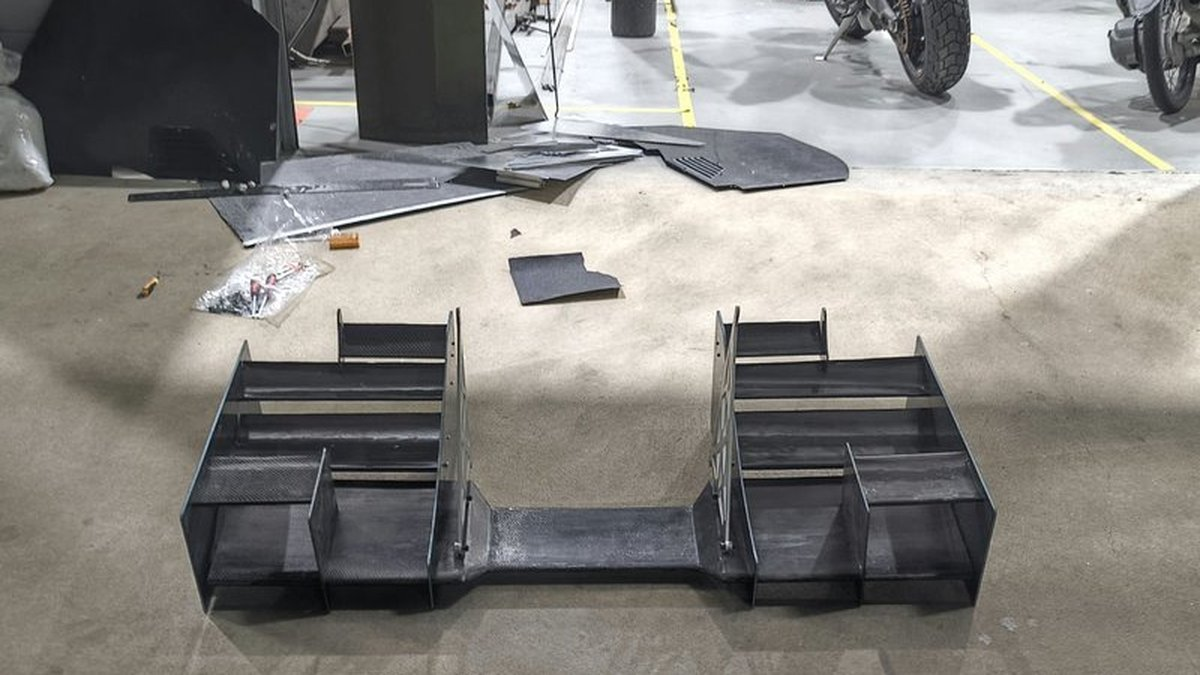
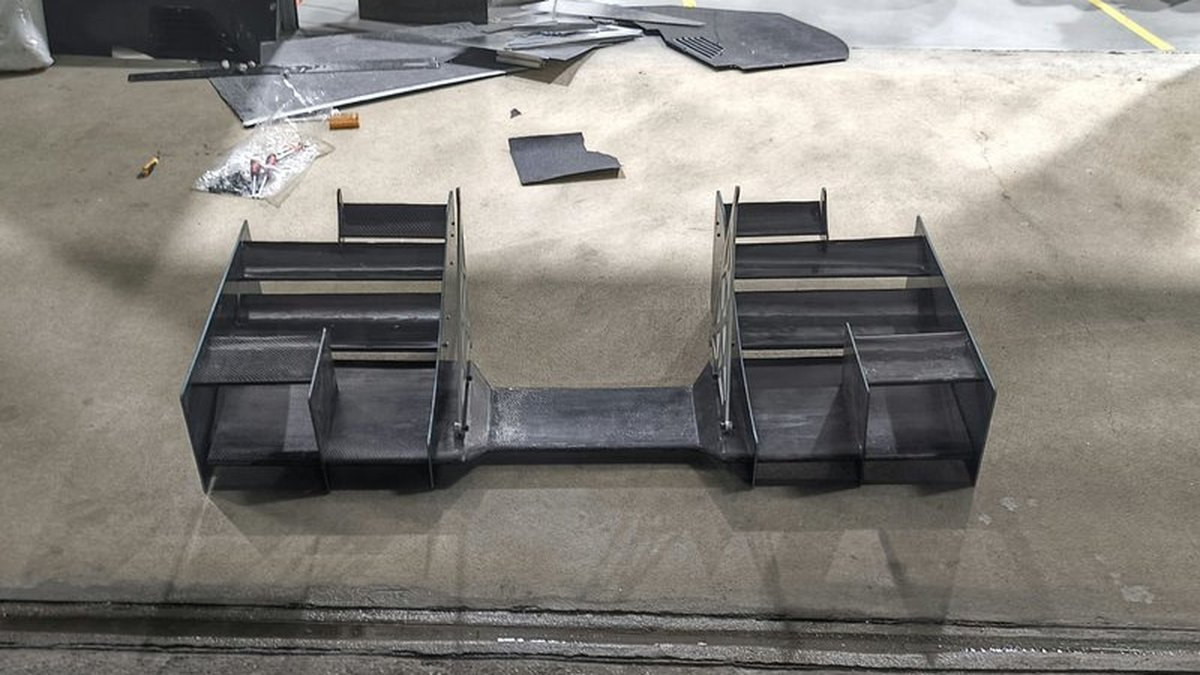
content: align TSAE card, page, and social image
- use the tuned front-wing crop for the homepage card, project page, and social preview
- keep the full-resolution photo as an archive
- update image documentation and metadata tests

diff --git a/works/tsae2027.html b/works/tsae2027.html
@@ -15,12 +15,12 @@
   <meta property="og:title" content="Tadtapong Chuenchumsaeng — FSAE Aero Package Manufacturing">
   <meta property="og:description" content="In-house composite tooling, mold making, and carbon layup for the TSAE2027 Formula Student aerodynamic package.">
   <meta property="og:url" content="https://tadtapongc.github.io/works/tsae2027.html">
-  <meta property="og:image" content="https://tadtapongc.github.io/images/tsae-front-wing-complete.jpg">
+  <meta property="og:image" content="https://tadtapongc.github.io/images/tsae-front-wing-complete-card.jpg">
   <meta property="og:image:alt" content="FSAE Aero Package Manufacturing">
   <meta name="twitter:card" content="summary_large_image">
   <meta name="twitter:title" content="Tadtapong Chuenchumsaeng — FSAE Aero Package Manufacturing">
   <meta name="twitter:description" content="In-house composite tooling, mold making, and carbon layup for the TSAE2027 Formula Student aerodynamic package.">
-  <meta name="twitter:image" content="https://tadtapongc.github.io/images/tsae-front-wing-complete.jpg">
+  <meta name="twitter:image" content="https://tadtapongc.github.io/images/tsae-front-wing-complete-card.jpg">
   <meta name="twitter:image:alt" content="FSAE Aero Package Manufacturing">
   <link rel="icon" type="image/svg+xml" href="../favicon.svg">
   <link rel="preconnect" href="https://fonts.googleapis.com">
@@ -253,7 +253,7 @@
     <figcaption>Weighing the dry-fit front wing — skins, ribs, and spar — before bonding.</figcaption>
   </figure>
 </div><figure class="project-figure">
-  <img src="../images/tsae-front-wing-complete.jpg" alt="Complete front-wing assembly with all elements fitted" width="1200" height="904" loading="lazy" decoding="async">
+  <img src="../images/tsae-front-wing-complete-card.jpg" alt="Complete front-wing assembly with all elements fitted" width="1200" height="675" loading="lazy" decoding="async">
   <figcaption>Complete front-wing assembly with every element fitted.</figcaption>
 </figure><p>The intended change is structural: a geometry revision should become an internal tooling and layup task the team can plan, execute, and inspect, rather than a purchase order and a waiting period. The process is being documented so the next TSAE team has a starting point, and the first front-wing assembly will provide a baseline for planned aerodynamic testing.</p>
 <h3>References &amp; credits</h3>

diff --git a/test/build.test.js b/test/build.test.js
@@ -66,7 +66,7 @@ test('TSAE page includes the manufacturing gallery', () => {
   assert.match(html, /tsae-rear-wing-mold\.jpg/);
   assert.match(html, /tsae-rear-wing-skin\.jpg/);
   assert.match(html, /tsae-front-wing-weight\.jpg/);
-  assert.match(html, /tsae-front-wing-complete\.jpg/);
+  assert.match(html, /tsae-front-wing-complete-card\.jpg/);
   assert.match(html, /tsae-cnc-endplate\.jpg/);
   assert.match(html, /tsae-front-wing-structure\.jpg/);
   assert.doesNotMatch(html, /tsae-carbon-weave\.jpg/);
@@ -79,7 +79,7 @@ test('TSAE card and social image use the complete front wing', () => {
   const page = read('works/tsae2027.html');
 
   assert.match(home, /tsae-front-wing-complete-card\.jpg/);
-  assert.match(page, /property="og:image" content="https:\/\/tadtapongc\.github\.io\/images\/tsae-front-wing-complete\.jpg"/);
+  assert.match(page, /property="og:image" content="https:\/\/tadtapongc\.github\.io\/images\/tsae-front-wing-complete-card\.jpg"/);
 });
 
 test('RapidFOAM social image uses the JPEG OG card', () => {

diff --git a/content/works/tsae2027.md b/content/works/tsae2027.md
@@ -8,7 +8,7 @@ card_tag: Formula Student · Manufacturing
 header_tag: Formula Student · Manufacturing & Composites
 icon: 🏎
 thumbnail: /images/tsae-front-wing-complete-card.jpg
-banner: /images/tsae-front-wing-complete.jpg
+banner: /images/tsae-front-wing-complete-card.jpg
 meta_items:
   - label: Role / Type
     value: Composites Manufacturing · Student Team
@@ -236,7 +236,7 @@ The in-house workflow has removed external fabrication from the critical path an
 </div>
 
 <figure class="project-figure">
-  <img src="../images/tsae-front-wing-complete.jpg" alt="Complete front-wing assembly with all elements fitted" width="1200" height="904" loading="lazy" decoding="async">
+  <img src="../images/tsae-front-wing-complete-card.jpg" alt="Complete front-wing assembly with all elements fitted" width="1200" height="675" loading="lazy" decoding="async">
   <figcaption>Complete front-wing assembly with every element fitted.</figcaption>
 </figure>
 

diff --git a/images/README.md b/images/README.md
@@ -15,8 +15,8 @@ Images in this folder are used by the homepage cards and social preview images. 
 - `rapidfoam-studio-og.jpg` — social preview image (1200×630)
 
 ### FSAE / TSAE2027
-- `tsae-front-wing-complete-card.jpg` — homepage card (landscape crop of the completed front wing)
-- `tsae-front-wing-complete.jpg` — complete front-wing assembly; project page and social preview
+- `tsae-front-wing-complete-card.jpg` — homepage card, project page, and social preview (landscape crop of the completed front wing)
+- `tsae-front-wing-complete.jpg` — full-resolution archive of the completed front wing
 - `1000002015.jpg` — alternate carbon-part photo (archive, not currently used)
 - `formula.jpg` — team banner (archive, not currently used)
 - `tsae-foam-plug.jpg` — front-wing foam plug with flange boards
